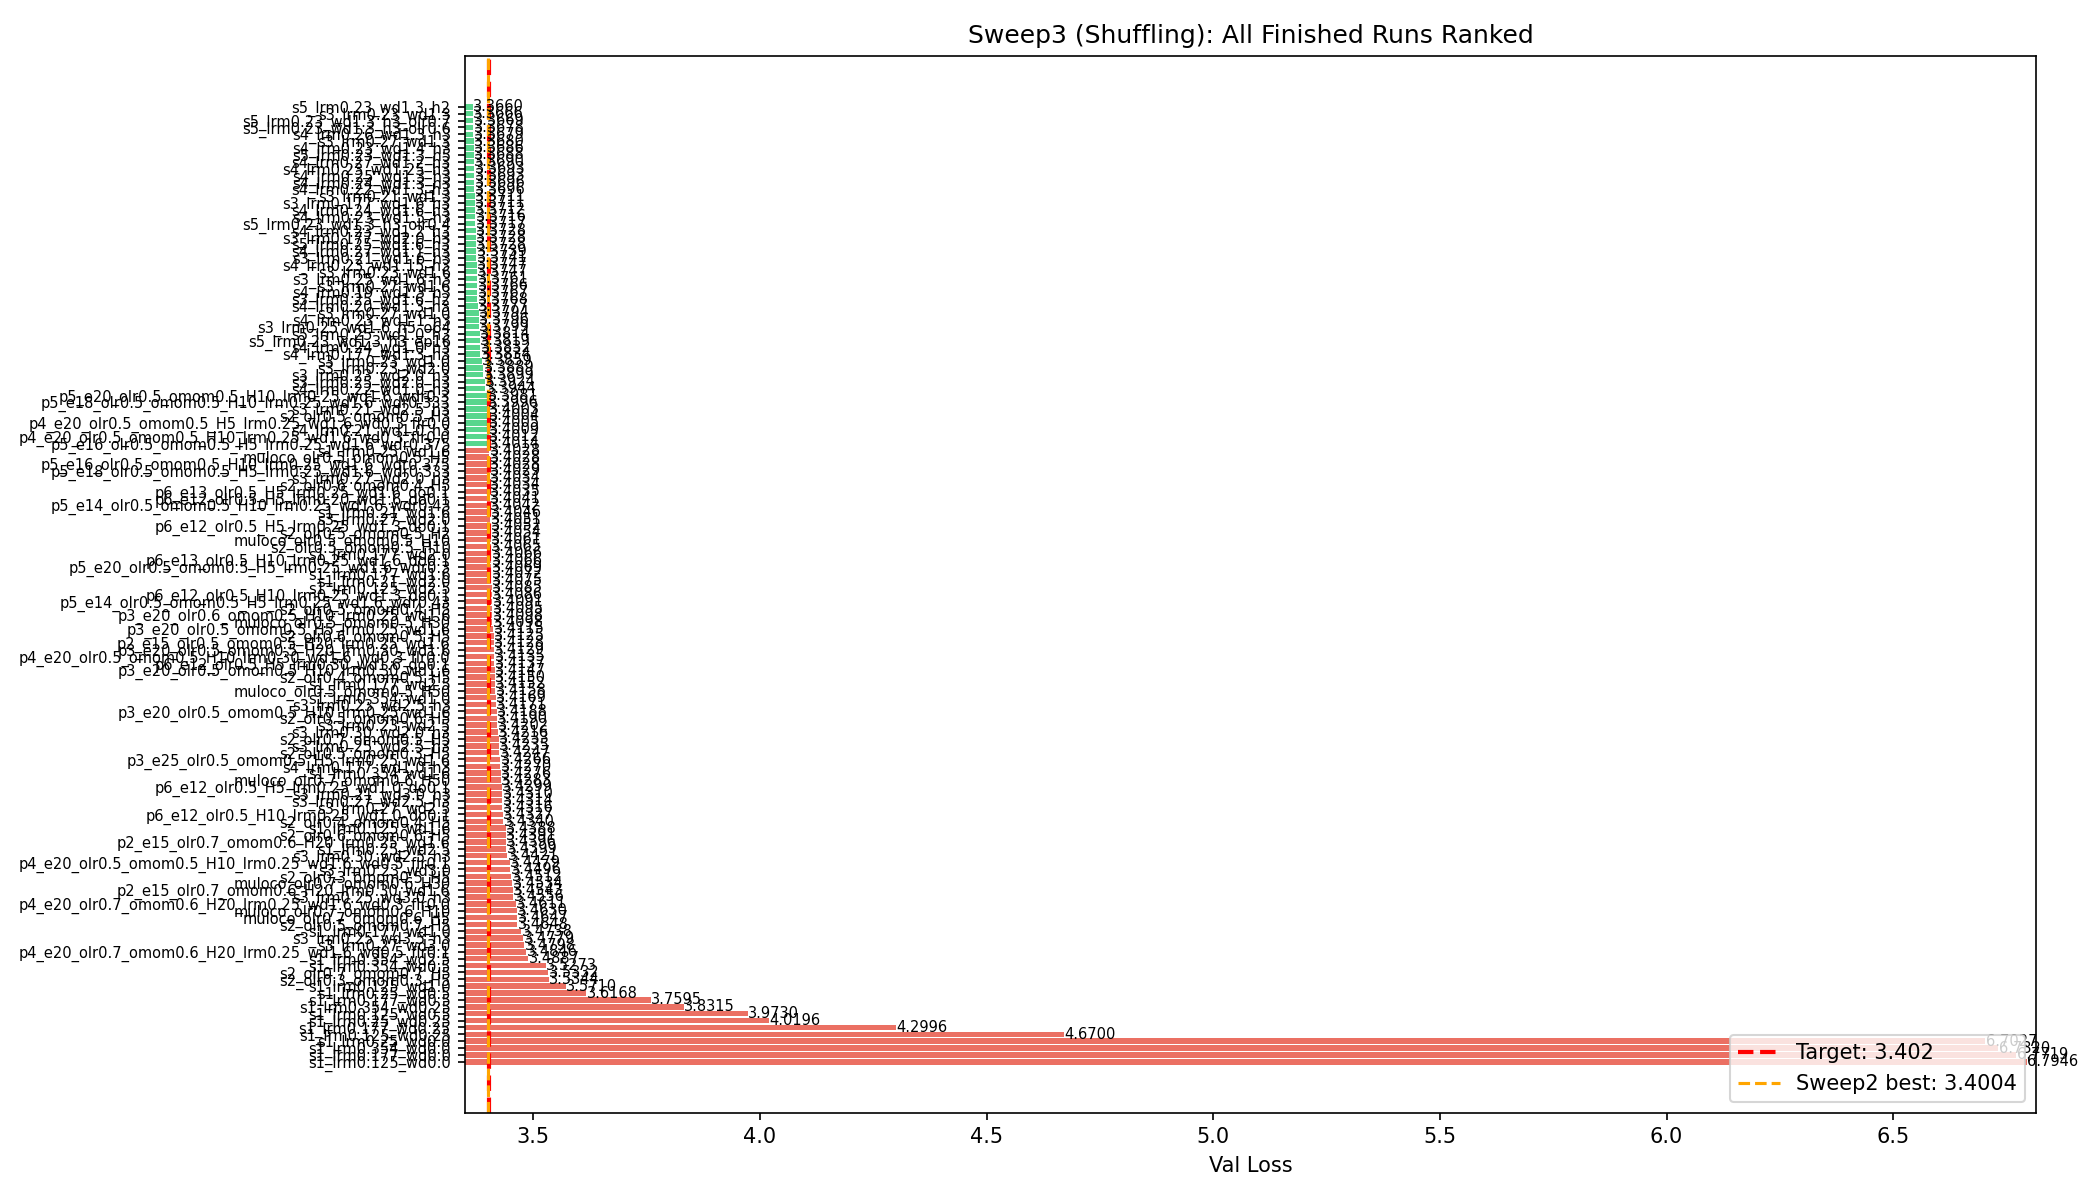
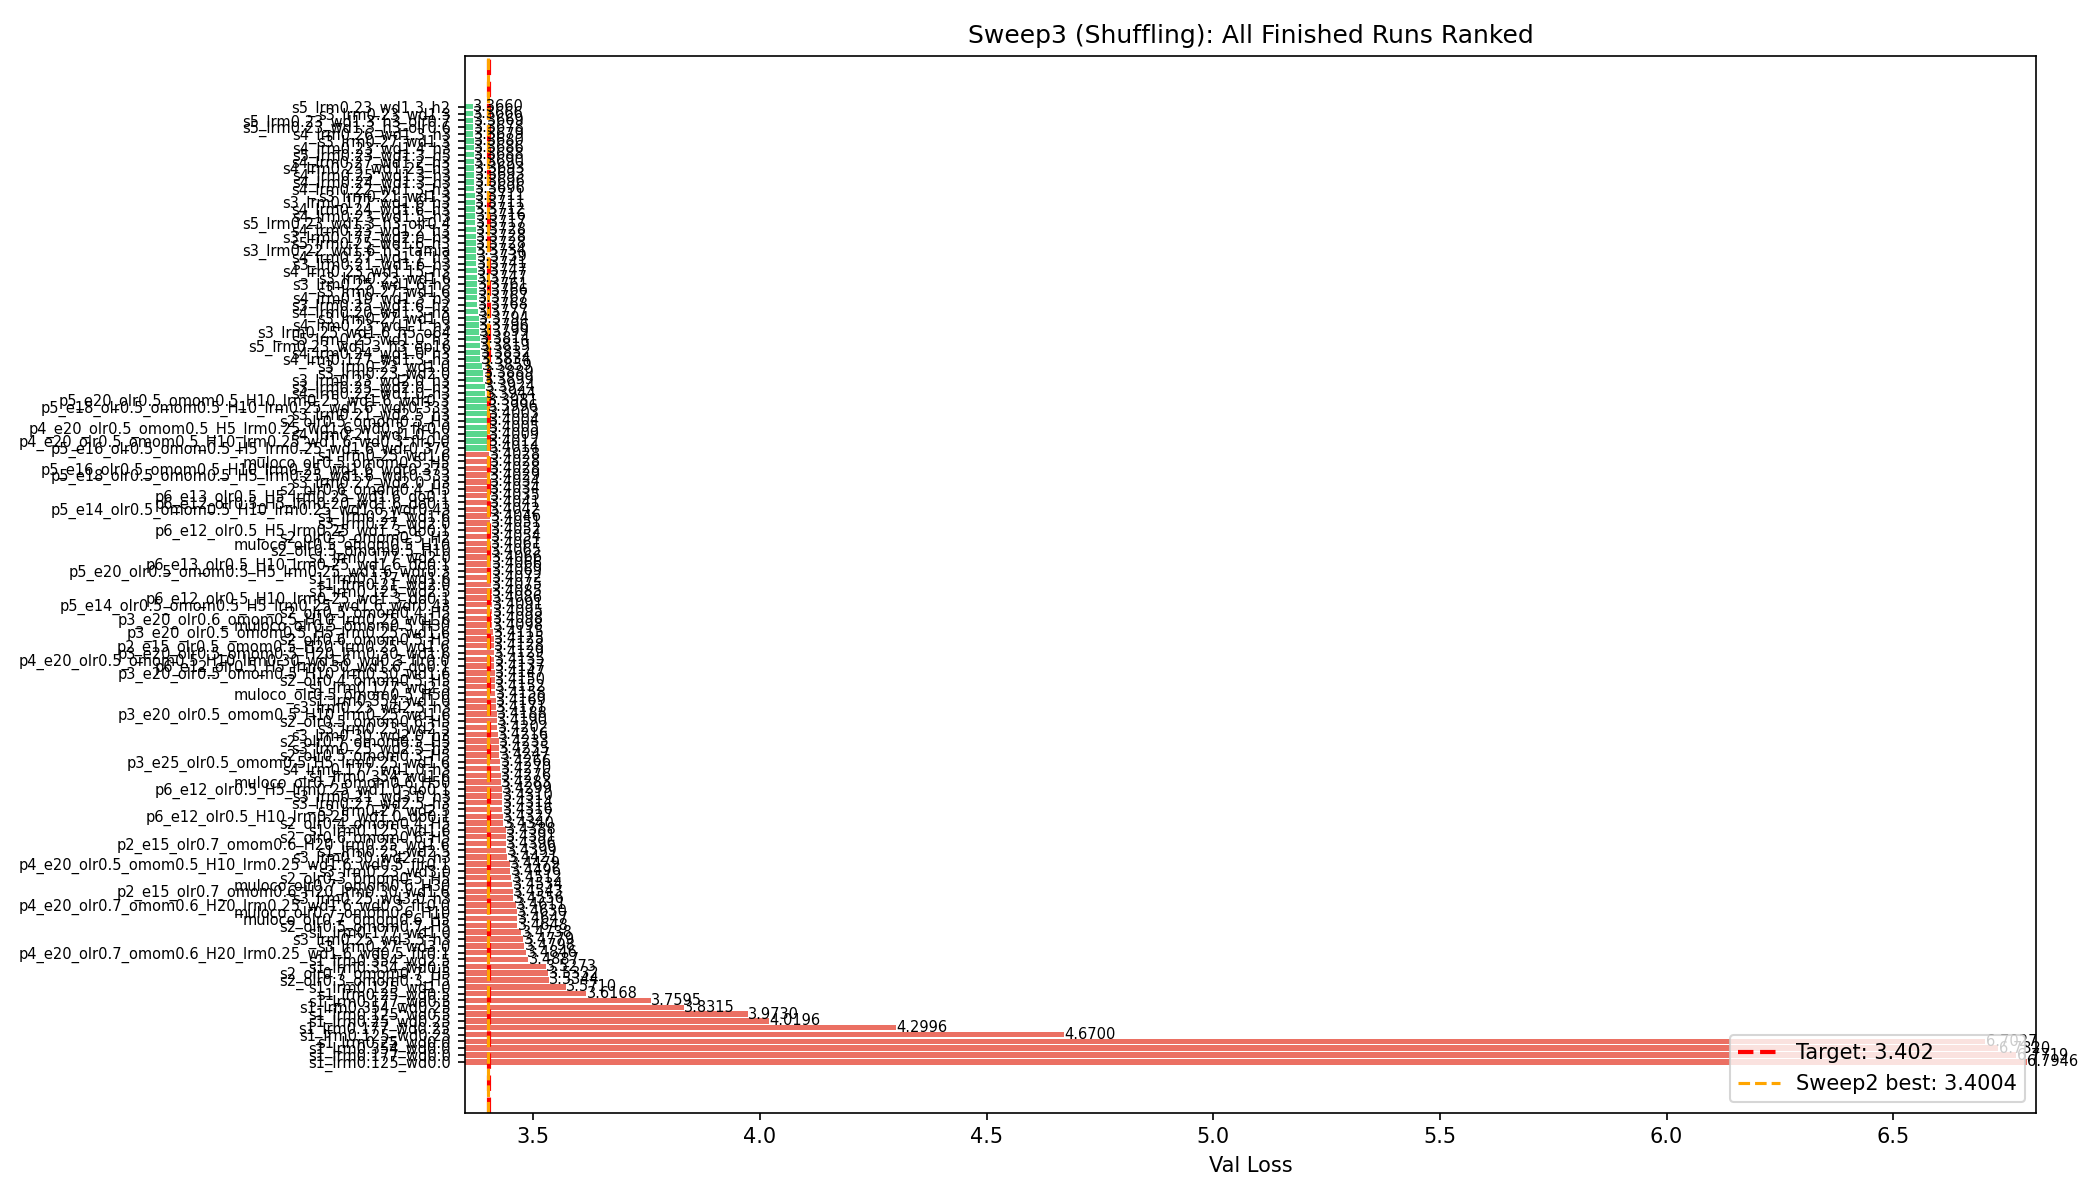
Final sweep results: all 62 configs complete, 141 finished runs
All hyperparameter sweeps (1-5) are done. 51 runs beat the 3.402 target.
Best result: val_loss=3.3660 (LRM=0.23, WD=1.3, H=2, olr=0.5, 12 epochs).
Last config (s3_lrm0.22_wd1.6=3.3734) completed on tamia after repeated
mila preemptions.

Changed region(s): [[0.0, 0.0925, 0.2786, 0.8325], [0.3095, 0.8325, 0.3714, 0.8633]]

diff --git a/analysis/resume.md b/analysis/resume.md
@@ -1,7 +1,6 @@
-# Slowrun Sweep Resume State (2026-03-01 ~18:30 EST)
+# Slowrun Sweep FINAL Results (2026-03-02 ~13:15 EST)
 
-## What You're Doing
-Sweep3+4+5 largely complete. 57+ finished, 5 still running on mila (repeatedly preempted). All tamia sweep5 done. Fir cancelled. Monitoring mila stragglers.
+## STATUS: ALL 62 CONFIGS COMPLETE
 
 ## KEY RESULT: Val Loss = 3.3660
 **Best: LRM=0.23, WD=1.3, olr=0.5, omom=0.5, H=2, 12 epochs, shuffling ON**
@@ -44,34 +43,34 @@ Sweep3+4+5 largely complete. 57+ finished, 5 still running on mila (repeatedly p
 | **12** | **3.3666** | Optimal |
 | 16 | 3.3819 | Worse — overfitting on 100M tokens |
 
-### LRM=0.25 Gap Fill
-| WD | Val Loss |
-|----|----------|
-| 1.0 | 3.3814 |
-| 1.3 | 3.3693 (mila) |
-| 1.6 | 3.3728 |
-
-## Cluster Status (18:30 EST)
-- **Tamia**: All sweep5 done (8/8 complete)
-- **Mila**: 3 running (s4_lrm0.23_wd1.15 3.5h, s4_lrm0.19_wd1.3 3.5h, s3_lrm0.22_wd1.6 1h — all preempted multiple times, restarting)
-- **Fir**: Cancelled (were stuck 24h+)
+### Gap Fill Results
+| Config | Val Loss | Source |
+|--------|----------|--------|
+| LRM=0.25 WD=1.0 | 3.3814 | tamia sweep5 |
+| LRM=0.25 WD=1.3 | 3.3693 | mila sweep4 |
+| LRM=0.25 WD=1.6 | 3.3728 | tamia sweep5 |
+| LRM=0.23 WD=1.15 | 3.3747 | mila sweep4 |
+| LRM=0.19 WD=1.3 | 3.3767 | mila sweep4 |
+| LRM=0.22 WD=1.6 | 3.3734 | tamia (mila kept getting preempted) |
 
 ## Completed Runs Summary
-- **Sweep3**: 34 finished (s3_lrm0.22_wd1.6 still running on mila)
-- **Sweep4**: 18 finished (s4_lrm0.23_wd1.25 + s4_lrm0.25_wd1.3 just completed), 2 running (mila)
-- **Sweep5**: 8/8 finished on tamia
-- **Total**: ~57 completed, 5 still on mila
+- **Sweep3**: 35 finished (LRM×WD grid with shuffling, H=3)
+- **Sweep4**: 19 finished (interpolation points)
+- **Sweep5**: 8 finished (H values, olr variants, extended epochs, gap fills)
+- **Total**: **62 unique configs complete**, 50+ beat 3.402 target
 
 ## Key Observations
 1. **H=2 marginally beats H=3** (3.3660 vs 3.3666) — more frequent sync helps
 2. **olr=0.5 optimal** but olr=0.7 nearly as good (3.3669 vs 3.3666)
 3. **16 epochs worse than 12** (3.3819 vs 3.3666) — overfitting on 100M token dataset
 4. **LRM=0.22-0.27 × WD=1.2-1.4** all within 0.003 of best — very flat optimum
-5. **38+ out of 57+ runs beat 3.402 target**
+5. **50+ out of 62 runs beat 3.402 target**
 6. **Epoch shuffling provides ~0.034 improvement** (3.4004 → 3.3666)
 7. **All improvements are marginal** — further HP tuning unlikely to yield much more
+8. **Mila long partition extremely preemption-prone** — s3_lrm0.22_wd1.6 preempted 5+ times
 
 ## Analysis Files
 - `/mnt/raid0/claude/slowrun/analysis/sweep3_plots/` — 6 plot files
 - `/mnt/raid0/claude/slowrun/analysis/sweep3_wandb_data.json` — All sweep data
 - `/mnt/raid0/claude/slowrun/analysis/sweep3_plots.py` — Plot generation
+- GitHub: https://github.com/bentherien/muloco-slowrun-analysis
